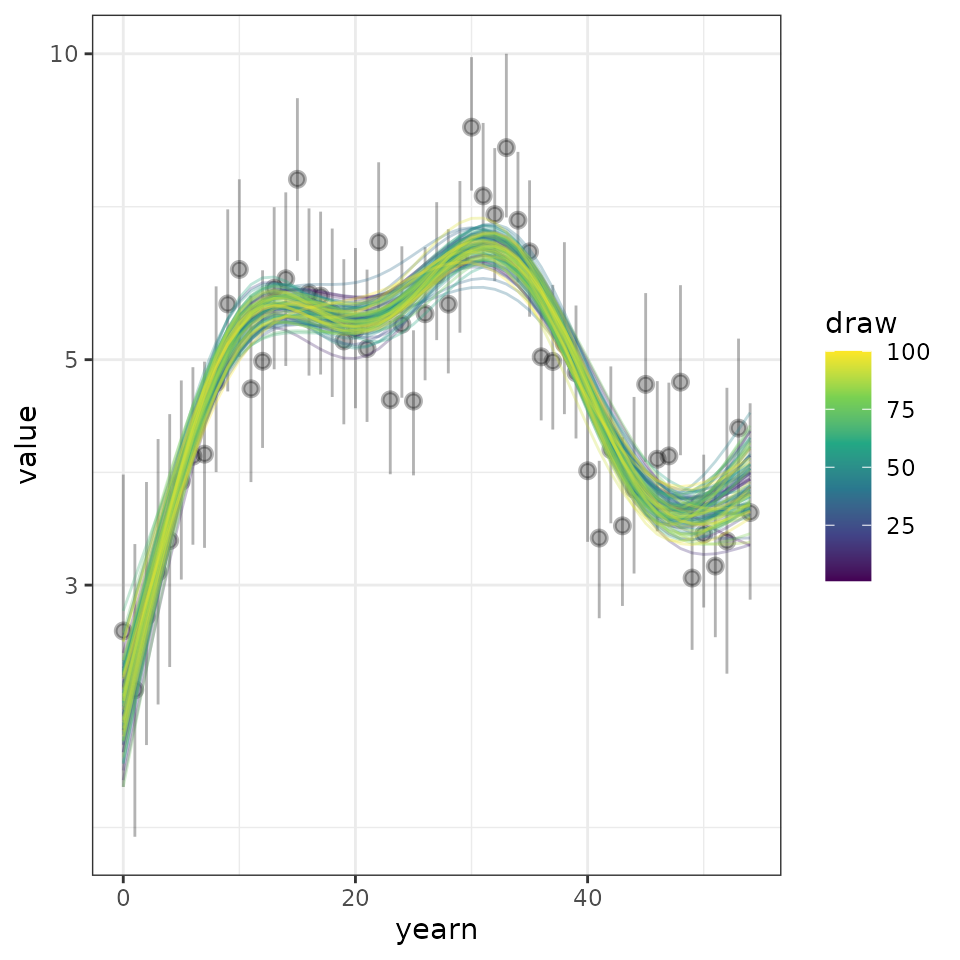
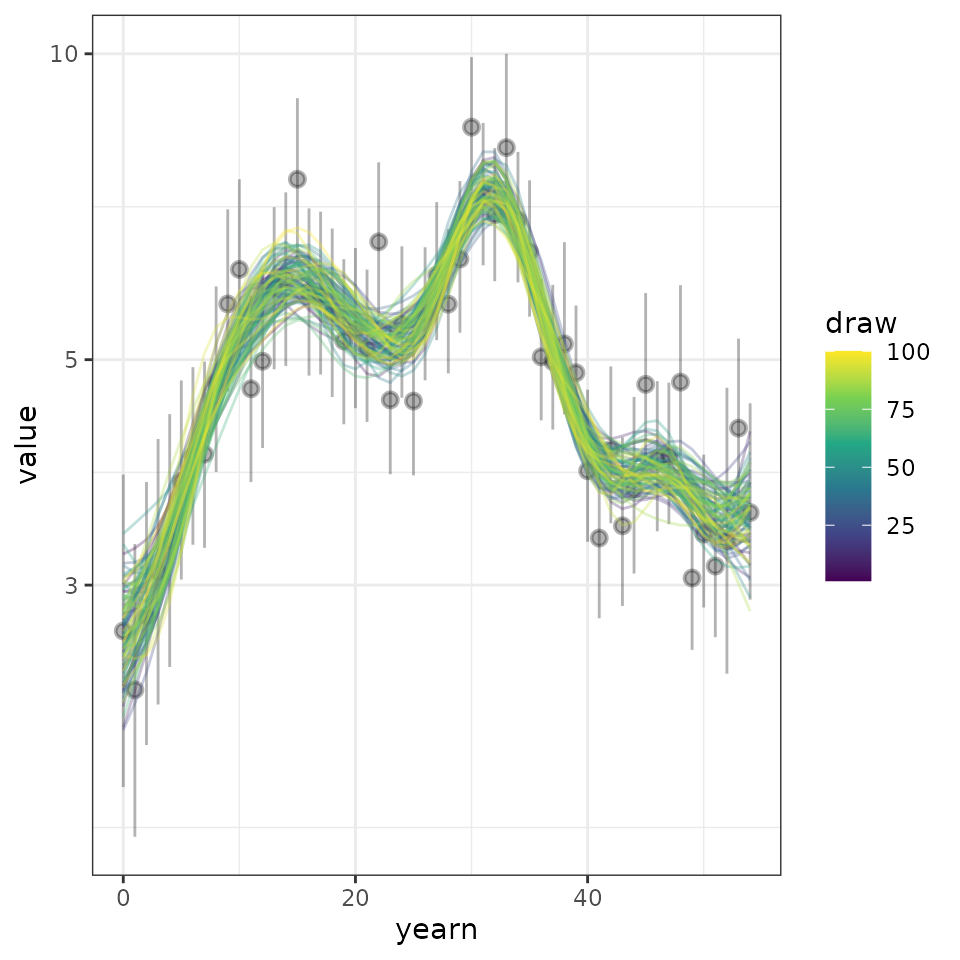
Deploying to gh-pages from @ ninoxconsulting/birdtrends@5244a6bfaedf1dada3419a0c0b6dcdfd1144d72c 🚀

Changed region(s): [[0.125, 0.1562, 0.7812, 0.8125]]

diff --git a/articles/Using-annual-indices-datasets.html b/articles/Using-annual-indices-datasets.html
@@ -135,17 +135,18 @@ a known autocorrelation structure in the annual errors.</p>
 <code class="sourceCode R"><span></span>
 <span><span class="va">indat1</span> <span class="op">&lt;-</span> <span class="va">annual_indicies_data</span></span>
 <span></span>
-<span><span class="va">fitted_data</span> <span class="op">&lt;-</span> <span class="fu"><a href="../reference/fit_hgam.html">fit_hgam</a></span><span class="op">(</span><span class="va">indat1</span>, start_yr <span class="op">=</span> <span class="cn">NA</span>, end_yr <span class="op">=</span> <span class="cn">NA</span>, n_knots <span class="op">=</span> <span class="fl">5</span><span class="op">)</span></span>
+<span><span class="va">fitted_data</span> <span class="op">&lt;-</span> <span class="fu"><a href="../reference/fit_hgam.html">fit_hgam</a></span><span class="op">(</span><span class="va">indat1</span>, start_yr <span class="op">=</span> <span class="cn">NA</span>, end_yr <span class="op">=</span> <span class="cn">NA</span>, n_knots <span class="op">=</span> <span class="cn">NA</span><span class="op">)</span></span>
 <span><span class="co">#&gt; Running MCMC with 4 parallel chains...</span></span>
 <span><span class="co">#&gt; </span></span>
-<span><span class="co">#&gt; Chain 1 finished in 1.1 seconds.</span></span>
-<span><span class="co">#&gt; Chain 2 finished in 1.2 seconds.</span></span>
-<span><span class="co">#&gt; Chain 3 finished in 1.2 seconds.</span></span>
-<span><span class="co">#&gt; Chain 4 finished in 1.2 seconds.</span></span>
+<span><span class="co">#&gt; Chain 1 finished in 2.0 seconds.</span></span>
+<span><span class="co">#&gt; Chain 3 finished in 2.1 seconds.</span></span>
+<span><span class="co">#&gt; Chain 4 finished in 2.1 seconds.</span></span>
+<span><span class="co">#&gt; Chain 2 finished in 2.2 seconds.</span></span>
 <span><span class="co">#&gt; </span></span>
 <span><span class="co">#&gt; All 4 chains finished successfully.</span></span>
-<span><span class="co">#&gt; Mean chain execution time: 1.2 seconds.</span></span>
-<span><span class="co">#&gt; Total execution time: 1.4 seconds.</span></span></code></pre></div>
+<span><span class="co">#&gt; Mean chain execution time: 2.1 seconds.</span></span>
+<span><span class="co">#&gt; Total execution time: 2.4 seconds.</span></span>
+<span><span class="co">#fitted_data &lt;- fit_hgam(indat1, start_yr = 1990, end_yr = 2014, n_knots = NA)</span></span></code></pre></div>
 </div>
 <div class="section level3">
 <h3 id="explore-the-results">2.2 Explore the results<a class="anchor" aria-label="anchor" href="#explore-the-results"></a>
@@ -153,7 +154,8 @@ a known autocorrelation structure in the annual errors.</p>
 <p>Select a subset of all the fitted HGAM models and reformat to long
 format. In this example we selected 100 rows for simplicity.</p>
 <div class="sourceCode" id="cb4"><pre class="downlit sourceCode r">
-<code class="sourceCode R"><span><span class="va">sel_hgams</span> <span class="op">&lt;-</span> <span class="va">fitted_data</span> <span class="op"><a href="../reference/pipe.html">%&gt;%</a></span></span>
+<code class="sourceCode R"><span></span>
+<span><span class="va">sel_hgams</span> <span class="op">&lt;-</span> <span class="va">fitted_data</span> <span class="op"><a href="../reference/pipe.html">%&gt;%</a></span></span>
 <span>  <span class="fu">dplyr</span><span class="fu">::</span><span class="fu"><a href="https://dplyr.tidyverse.org/reference/slice.html" class="external-link">slice_sample</a></span><span class="op">(</span><span class="va">.</span>, n <span class="op">=</span> <span class="fl">100</span><span class="op">)</span> <span class="op"><a href="../reference/pipe.html">%&gt;%</a></span>  </span>
 <span>  <span class="fu">dplyr</span><span class="fu">::</span><span class="fu"><a href="https://dplyr.tidyverse.org/reference/mutate.html" class="external-link">mutate</a></span><span class="op">(</span>draw <span class="op">=</span> <span class="fu"><a href="https://rdrr.io/r/base/seq.html" class="external-link">seq</a></span><span class="op">(</span><span class="fl">1</span>, <span class="fl">100</span>, <span class="fl">1</span><span class="op">)</span><span class="op">)</span> <span class="op"><a href="../reference/pipe.html">%&gt;%</a></span> </span>
 <span>  <span class="fu">tidyr</span><span class="fu">::</span><span class="fu"><a href="https://tidyr.tidyverse.org/reference/pivot_longer.html" class="external-link">pivot_longer</a></span><span class="op">(</span><span class="va">.</span>, cols <span class="op">=</span> <span class="op">!</span><span class="fu"><a href="https://tidyselect.r-lib.org/reference/starts_with.html" class="external-link">starts_with</a></span><span class="op">(</span><span class="st">"d"</span><span class="op">)</span><span class="op">)</span> <span class="op">|&gt;</span> </span>
@@ -161,7 +163,12 @@ format. In this example we selected 100 rows for simplicity.</p>
 <span>         </span></code></pre></div>
 <p>We can reformat our original data to use in the plot</p>
 <div class="sourceCode" id="cb5"><pre class="downlit sourceCode r">
-<code class="sourceCode R"><span><span class="va">indat1</span> <span class="op">&lt;-</span> <span class="va">indat1</span> <span class="op">|&gt;</span> </span>
+<code class="sourceCode R"><span></span>
+<span><span class="va">min_year</span> <span class="op">&lt;-</span> <span class="fu"><a href="https://rdrr.io/r/base/numeric.html" class="external-link">as.numeric</a></span><span class="op">(</span><span class="fu"><a href="https://rdrr.io/r/base/Extremes.html" class="external-link">min</a></span><span class="op">(</span><span class="va">sel_hgams</span><span class="op">$</span><span class="va">name</span><span class="op">)</span><span class="op">)</span></span>
+<span><span class="va">max_year</span> <span class="op">&lt;-</span> <span class="fu"><a href="https://rdrr.io/r/base/numeric.html" class="external-link">as.numeric</a></span><span class="op">(</span><span class="fu"><a href="https://rdrr.io/r/base/Extremes.html" class="external-link">max</a></span><span class="op">(</span><span class="va">sel_hgams</span><span class="op">$</span><span class="va">name</span><span class="op">)</span><span class="op">)</span></span>
+<span></span>
+<span><span class="va">indat1</span> <span class="op">&lt;-</span> <span class="va">indat1</span> <span class="op">|&gt;</span> </span>
+<span>  <span class="fu"><a href="https://dplyr.tidyverse.org/reference/filter.html" class="external-link">filter</a></span><span class="op">(</span><span class="va">year</span> <span class="op">&gt;=</span> <span class="va">min_year</span> <span class="op">&amp;</span> <span class="va">year</span> <span class="op">&lt;=</span> <span class="va">max_year</span><span class="op">)</span><span class="op"><a href="../reference/pipe.html">%&gt;%</a></span></span>
 <span>  <span class="fu">dplyr</span><span class="fu">::</span><span class="fu"><a href="https://dplyr.tidyverse.org/reference/mutate.html" class="external-link">mutate</a></span><span class="op">(</span>yearn <span class="op">=</span> <span class="fu"><a href="https://rdrr.io/r/base/integer.html" class="external-link">as.integer</a></span><span class="op">(</span><span class="va">year</span><span class="op">)</span> <span class="op">-</span> <span class="fu"><a href="https://rdrr.io/r/base/Extremes.html" class="external-link">min</a></span><span class="op">(</span><span class="fu"><a href="https://rdrr.io/r/base/integer.html" class="external-link">as.integer</a></span><span class="op">(</span><span class="va">year</span><span class="op">)</span><span class="op">)</span><span class="op">)</span>  </span></code></pre></div>
 <p>Now we can plot the predicted posterior distributions of 100 draws,
 along with the raw annual indices data provided.</p>
@@ -195,40 +202,42 @@ of time. This can be used to predict into the future.</p>
 “draw”, “year”, and “proj_y”. Note if using the output from the
 “fit_hgam” we can use the code below.</p>
 <div class="sourceCode" id="cb8"><pre class="downlit sourceCode r">
-<code class="sourceCode R"><span>  <span class="va">ldf</span> <span class="op">&lt;-</span> <span class="fu">tibble</span><span class="fu">::</span><span class="fu"><a href="https://tibble.tidyverse.org/reference/rownames.html" class="external-link">rowid_to_column</a></span><span class="op">(</span><span class="va">fitted_data</span>, <span class="st">"draw"</span><span class="op">)</span> <span class="op"><a href="../reference/pipe.html">%&gt;%</a></span></span>
+<code class="sourceCode R"><span></span>
+<span><span class="va">ldf</span> <span class="op">&lt;-</span> <span class="fu">tibble</span><span class="fu">::</span><span class="fu"><a href="https://tibble.tidyverse.org/reference/rownames.html" class="external-link">rowid_to_column</a></span><span class="op">(</span><span class="va">fitted_data</span>, <span class="st">"draw"</span><span class="op">)</span> <span class="op"><a href="../reference/pipe.html">%&gt;%</a></span></span>
 <span>    <span class="fu">tidyr</span><span class="fu">::</span><span class="fu"><a href="https://tidyr.tidyverse.org/reference/pivot_longer.html" class="external-link">pivot_longer</a></span><span class="op">(</span><span class="va">.</span>, cols <span class="op">=</span> <span class="op">!</span><span class="fu"><a href="https://tidyselect.r-lib.org/reference/starts_with.html" class="external-link">starts_with</a></span><span class="op">(</span><span class="st">"d"</span><span class="op">)</span><span class="op">)</span> <span class="op"><a href="../reference/pipe.html">%&gt;%</a></span></span>
 <span>    <span class="fu">dplyr</span><span class="fu">::</span><span class="fu"><a href="https://dplyr.tidyverse.org/reference/rename.html" class="external-link">rename</a></span><span class="op">(</span><span class="st">'year'</span> <span class="op">=</span> <span class="va">name</span>, <span class="st">"proj_y"</span> <span class="op">=</span> <span class="va">value</span><span class="op">)</span><span class="op"><a href="../reference/pipe.html">%&gt;%</a></span></span>
 <span>    <span class="fu"><a href="https://dplyr.tidyverse.org/reference/mutate.html" class="external-link">mutate</a></span><span class="op">(</span>year <span class="op">=</span> <span class="fu"><a href="https://rdrr.io/r/base/integer.html" class="external-link">as.integer</a></span><span class="op">(</span><span class="va">year</span><span class="op">)</span><span class="op">)</span></span></code></pre></div>
 <p>This creates a dataset in which each row contains an estimated
 indices per year and per posterior draw (n = 4000).</p>
 <div class="sourceCode" id="cb9"><pre class="downlit sourceCode r">
-<code class="sourceCode R"><span> <span class="fu"><a href="https://rdrr.io/r/utils/head.html" class="external-link">head</a></span><span class="op">(</span><span class="va">ldf</span><span class="op">)</span></span>
+<code class="sourceCode R"><span><span class="fu"><a href="https://rdrr.io/r/utils/head.html" class="external-link">head</a></span><span class="op">(</span><span class="va">ldf</span><span class="op">)</span></span>
 <span><span class="co">#&gt; <span style="color: #949494;"># A tibble: 6 × 3</span></span></span>
 <span><span class="co">#&gt;    draw  year proj_y</span></span>
 <span><span class="co">#&gt;   <span style="color: #949494; font-style: italic;">&lt;int&gt;</span> <span style="color: #949494; font-style: italic;">&lt;int&gt;</span>  <span style="color: #949494; font-style: italic;">&lt;dbl&gt;</span></span></span>
-<span><span class="co">#&gt; <span style="color: #BCBCBC;">1</span>     1  <span style="text-decoration: underline;">1</span>968   2.42</span></span>
-<span><span class="co">#&gt; <span style="color: #BCBCBC;">2</span>     1  <span style="text-decoration: underline;">1</span>969   2.64</span></span>
-<span><span class="co">#&gt; <span style="color: #BCBCBC;">3</span>     1  <span style="text-decoration: underline;">1</span>970   2.88</span></span>
-<span><span class="co">#&gt; <span style="color: #BCBCBC;">4</span>     1  <span style="text-decoration: underline;">1</span>971   3.14</span></span>
-<span><span class="co">#&gt; <span style="color: #BCBCBC;">5</span>     1  <span style="text-decoration: underline;">1</span>972   3.41</span></span>
-<span><span class="co">#&gt; <span style="color: #BCBCBC;">6</span>     1  <span style="text-decoration: underline;">1</span>973   3.69</span></span></code></pre></div>
+<span><span class="co">#&gt; <span style="color: #BCBCBC;">1</span>     1  <span style="text-decoration: underline;">1</span>968   2.70</span></span>
+<span><span class="co">#&gt; <span style="color: #BCBCBC;">2</span>     1  <span style="text-decoration: underline;">1</span>969   2.86</span></span>
+<span><span class="co">#&gt; <span style="color: #BCBCBC;">3</span>     1  <span style="text-decoration: underline;">1</span>970   3.03</span></span>
+<span><span class="co">#&gt; <span style="color: #BCBCBC;">4</span>     1  <span style="text-decoration: underline;">1</span>971   3.22</span></span>
+<span><span class="co">#&gt; <span style="color: #BCBCBC;">5</span>     1  <span style="text-decoration: underline;">1</span>972   3.44</span></span>
+<span><span class="co">#&gt; <span style="color: #BCBCBC;">6</span>     1  <span style="text-decoration: underline;">1</span>973   3.70</span></span></code></pre></div>
 <p>Now we can estimate a trend based on a given time internal and method
 of estimating trends. Where no dates are specified, the minimum and
 maximum years will be used. Two methods are available to estimate
 trends; 1) Geometric mean and 2) Linear regression.</p>
 <div class="sourceCode" id="cb10"><pre class="downlit sourceCode r">
-<code class="sourceCode R"><span>  <span class="va">trend_sm</span> <span class="op">&lt;-</span> <span class="fu"><a href="../reference/get_trend.html">get_trend</a></span><span class="op">(</span><span class="va">ldf</span>, start_yr <span class="op">=</span> <span class="fl">2014</span>, end_yr <span class="op">=</span> <span class="fl">2022</span>, method <span class="op">=</span> <span class="st">"gmean"</span><span class="op">)</span></span></code></pre></div>
+<code class="sourceCode R"><span></span>
+<span><span class="va">trend_sm</span> <span class="op">&lt;-</span> <span class="fu"><a href="../reference/get_trend.html">get_trend</a></span><span class="op">(</span><span class="va">ldf</span>, start_yr <span class="op">=</span> <span class="fl">2014</span>, end_yr <span class="op">=</span> <span class="fl">2022</span>, method <span class="op">=</span> <span class="st">"gmean"</span><span class="op">)</span></span></code></pre></div>
 <div class="sourceCode" id="cb11"><pre class="downlit sourceCode r">
-<code class="sourceCode R"><span> <span class="fu"><a href="https://rdrr.io/r/utils/head.html" class="external-link">head</a></span><span class="op">(</span><span class="va">trend_sm</span><span class="op">)</span></span>
+<code class="sourceCode R"><span><span class="fu"><a href="https://rdrr.io/r/utils/head.html" class="external-link">head</a></span><span class="op">(</span><span class="va">trend_sm</span><span class="op">)</span></span>
 <span><span class="co">#&gt; <span style="color: #949494;"># A tibble: 6 × 3</span></span></span>
 <span><span class="co">#&gt;    draw trend_log perc_trend</span></span>
 <span><span class="co">#&gt;   <span style="color: #949494; font-style: italic;">&lt;int&gt;</span>     <span style="color: #949494; font-style: italic;">&lt;dbl&gt;</span>      <span style="color: #949494; font-style: italic;">&lt;dbl&gt;</span></span></span>
-<span><span class="co">#&gt; <span style="color: #BCBCBC;">1</span>     1  -<span style="color: #BB0000;">0.014</span><span style="color: #BB0000; text-decoration: underline;">1</span>      -<span style="color: #BB0000;">1.40</span> </span></span>
-<span><span class="co">#&gt; <span style="color: #BCBCBC;">2</span>     2   0.002<span style="text-decoration: underline;">31</span>      0.231</span></span>
-<span><span class="co">#&gt; <span style="color: #BCBCBC;">3</span>     3  -<span style="color: #BB0000;">0.010</span><span style="color: #BB0000; text-decoration: underline;">7</span>      -<span style="color: #BB0000;">1.07</span> </span></span>
-<span><span class="co">#&gt; <span style="color: #BCBCBC;">4</span>     4  -<span style="color: #BB0000;">0.006</span><span style="color: #BB0000; text-decoration: underline;">41</span>     -<span style="color: #BB0000;">0.639</span></span></span>
-<span><span class="co">#&gt; <span style="color: #BCBCBC;">5</span>     5  -<span style="color: #BB0000;">0.004</span><span style="color: #BB0000; text-decoration: underline;">70</span>     -<span style="color: #BB0000;">0.469</span></span></span>
-<span><span class="co">#&gt; <span style="color: #BCBCBC;">6</span>     6   0.002<span style="text-decoration: underline;">22</span>      0.222</span></span></code></pre></div>
+<span><span class="co">#&gt; <span style="color: #BCBCBC;">1</span>     1   0.001<span style="text-decoration: underline;">08</span>      0.108</span></span>
+<span><span class="co">#&gt; <span style="color: #BCBCBC;">2</span>     2  -<span style="color: #BB0000;">0.024</span><span style="color: #BB0000; text-decoration: underline;">9</span>      -<span style="color: #BB0000;">2.46</span> </span></span>
+<span><span class="co">#&gt; <span style="color: #BCBCBC;">3</span>     3  -<span style="color: #BB0000;">0.015</span><span style="color: #BB0000; text-decoration: underline;">1</span>      -<span style="color: #BB0000;">1.50</span> </span></span>
+<span><span class="co">#&gt; <span style="color: #BCBCBC;">4</span>     4  -<span style="color: #BB0000;">0.018</span><span style="color: #BB0000; text-decoration: underline;">3</span>      -<span style="color: #BB0000;">1.81</span> </span></span>
+<span><span class="co">#&gt; <span style="color: #BCBCBC;">5</span>     5  -<span style="color: #BB0000;">0.008</span><span style="color: #BB0000; text-decoration: underline;">42</span>     -<span style="color: #BB0000;">0.839</span></span></span>
+<span><span class="co">#&gt; <span style="color: #BCBCBC;">6</span>     6  -<span style="color: #BB0000;">0.019</span><span style="color: #BB0000; text-decoration: underline;">0</span>      -<span style="color: #BB0000;">1.88</span></span></span></code></pre></div>
 <p>We can summarise the trend estimates to provide a median and
 confidence internal</p>
 <div class="sourceCode" id="cb12"><pre class="downlit sourceCode r">
@@ -241,7 +250,7 @@ confidence internal</p>
 <span><span class="co">#&gt; <span style="color: #949494;"># A tibble: 1 × 3</span></span></span>
 <span><span class="co">#&gt;   trend_q0.025 trend_q0.500 trend_q0.975</span></span>
 <span><span class="co">#&gt;          <span style="color: #949494; font-style: italic;">&lt;dbl&gt;</span>        <span style="color: #949494; font-style: italic;">&lt;dbl&gt;</span>        <span style="color: #949494; font-style: italic;">&lt;dbl&gt;</span></span></span>
-<span><span class="co">#&gt; <span style="color: #BCBCBC;">1</span>     -<span style="color: #BB0000;">0.009</span><span style="color: #BB0000; text-decoration: underline;">08</span>      0.007<span style="text-decoration: underline;">13</span>       0.023<span style="text-decoration: underline;">4</span></span></span></code></pre></div>
+<span><span class="co">#&gt; <span style="color: #BCBCBC;">1</span>      -<span style="color: #BB0000;">0.035</span><span style="color: #BB0000; text-decoration: underline;">3</span>      -<span style="color: #BB0000;">0.014</span><span style="color: #BB0000; text-decoration: underline;">3</span>      0.006<span style="text-decoration: underline;">46</span></span></span></code></pre></div>
 </div>
 <div class="section level2">
 <h2 id="predict-trend">4. Predict trend<a class="anchor" aria-label="anchor" href="#predict-trend"></a>
@@ -257,12 +266,12 @@ our given years to predict into the future.</p>
 <span><span class="co">#&gt; <span style="color: #949494;"># A tibble: 6 × 4</span></span></span>
 <span><span class="co">#&gt;    draw  year proj_y pred_ind</span></span>
 <span><span class="co">#&gt;   <span style="color: #949494; font-style: italic;">&lt;int&gt;</span> <span style="color: #949494; font-style: italic;">&lt;dbl&gt;</span>  <span style="color: #949494; font-style: italic;">&lt;dbl&gt;</span>    <span style="color: #949494; font-style: italic;">&lt;dbl&gt;</span></span></span>
-<span><span class="co">#&gt; <span style="color: #BCBCBC;">1</span>     1  <span style="text-decoration: underline;">1</span>968   2.42     2.42</span></span>
-<span><span class="co">#&gt; <span style="color: #BCBCBC;">2</span>     1  <span style="text-decoration: underline;">1</span>969   2.64     2.64</span></span>
-<span><span class="co">#&gt; <span style="color: #BCBCBC;">3</span>     1  <span style="text-decoration: underline;">1</span>970   2.88     2.88</span></span>
-<span><span class="co">#&gt; <span style="color: #BCBCBC;">4</span>     1  <span style="text-decoration: underline;">1</span>971   3.14     3.14</span></span>
-<span><span class="co">#&gt; <span style="color: #BCBCBC;">5</span>     1  <span style="text-decoration: underline;">1</span>972   3.41     3.41</span></span>
-<span><span class="co">#&gt; <span style="color: #BCBCBC;">6</span>     1  <span style="text-decoration: underline;">1</span>973   3.69     3.69</span></span></code></pre></div>
+<span><span class="co">#&gt; <span style="color: #BCBCBC;">1</span>     1  <span style="text-decoration: underline;">1</span>968   2.70     2.70</span></span>
+<span><span class="co">#&gt; <span style="color: #BCBCBC;">2</span>     1  <span style="text-decoration: underline;">1</span>969   2.86     2.86</span></span>
+<span><span class="co">#&gt; <span style="color: #BCBCBC;">3</span>     1  <span style="text-decoration: underline;">1</span>970   3.03     3.03</span></span>
+<span><span class="co">#&gt; <span style="color: #BCBCBC;">4</span>     1  <span style="text-decoration: underline;">1</span>971   3.22     3.22</span></span>
+<span><span class="co">#&gt; <span style="color: #BCBCBC;">5</span>     1  <span style="text-decoration: underline;">1</span>972   3.44     3.44</span></span>
+<span><span class="co">#&gt; <span style="color: #BCBCBC;">6</span>     1  <span style="text-decoration: underline;">1</span>973   3.70     3.70</span></span></code></pre></div>
 </div>
 <div class="section level2">
 <h2 id="plot-the-prediction">5. Plot the prediction<a class="anchor" aria-label="anchor" href="#plot-the-prediction"></a>
@@ -278,7 +287,7 @@ trends.</p>
 <span>                          pred_indices <span class="op">=</span> <span class="va">preds_sm</span>,</span>
 <span>                          start_yr <span class="op">=</span> <span class="fl">2014</span>, </span>
 <span>                          end_yr <span class="op">=</span> <span class="fl">2022</span><span class="op">)</span></span></code></pre></div>
-<p><img src="Using-annual-indices-datasets_files/figure-html/unnamed-chunk-12-1.png" width="672"></p>
+<p><img src="Using-annual-indices-datasets_files/figure-html/unnamed-chunk-11-1.png" width="672"></p>
 </div>
   </main><aside class="col-md-3"><nav id="toc"><h2>On this page</h2>
     </nav></aside>
